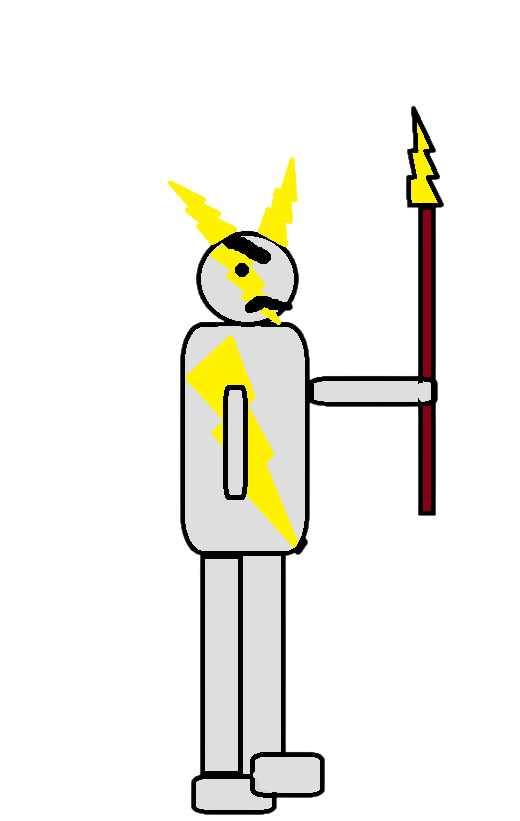
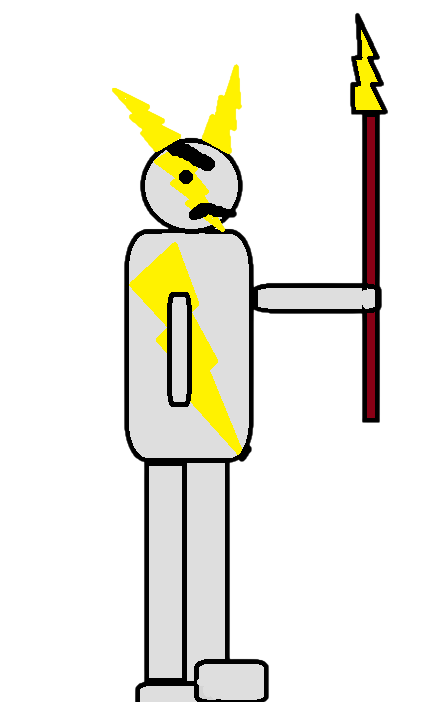
added attack animaye

Changed region(s): [[0.2464, 0.0, 0.9242, 1.0]]

diff --git a/gamae.py b/gamae.py
@@ -6,9 +6,19 @@ player1img=pygame.image.load('untiteld4.png')
 player1img=pygame.transform.scale(player1img,(60,85))
 player1imgleft=pygame.transform.flip(player1img,True,False)
 
+player1attack=pygame.image.load('untiteld4_attack.png')
+player1attack=pygame.transform.scale(player1attack,(60,85))
+player1attackleft=pygame.transform.flip(player1attack,True,False)
+
+pa1r=player1img
+
 player2img=pygame.image.load('Untitled5.png')
 player2img=pygame.transform.scale(player2img,(60,85))
 player2imgleft=pygame.transform.flip(player2img,True,False)
+
+player2attack=pygame.image.load('Untitled5_attack.png')
+player2attack=pygame.transform.scale(player2attack,(60,85))
+player2attackleft=pygame.transform.flip(player2attack,True,False)
 
 clock=pygame.time.Clock()
 
@@ -130,8 +140,6 @@ def player_movement(player_vl_x,player_vl_y,grounded,key,flag,floor,platform1,pl
 
     elif player_vl_x<0:
             player_vl_x+=0.5
-        
-    
 
     return player_vl_x,player_vl_y,grounded,flag
 
@@ -139,6 +147,7 @@ def player_movement(player_vl_x,player_vl_y,grounded,key,flag,floor,platform1,pl
 
 while runing:
     key=pygame.key.get_pressed()
+    mouse=pygame.mouse.get_pressed()
 
     for event in pygame.event.get():
 
@@ -160,12 +169,23 @@ while runing:
     screen.fill('purple')
     #pygame.draw.rect(screen,'gray',player1) # --hitbox--
     #pygame.draw.rect(screen,'gray',player2) # --hitbox--
-    if flag1==True:
+    if mouse[0]:
+        if flag1==True:
+            screen.blit(player1attack, (player1.x, player1.y))
+        elif flag1==False:
+            screen.blit(player1attackleft, (player1.x, player1.y))
+            
+    elif flag1==True:
         screen.blit(player1img, (player1.x, player1.y))
     elif flag1==False:
         screen.blit(player1imgleft, (player1.x, player1.y))
-    
-    if flag2==True:
+    if mouse[2]:
+        if flag2==True:
+            screen.blit(player2attack, (player2.x, player2.y))
+        elif flag2==False:
+            screen.blit(player2attackleft, (player2.x, player2.y))
+
+    elif flag2==True:
         screen.blit(player2img, (player2.x, player2.y))
     elif flag2==False:
         screen.blit(player2imgleft, (player2.x, player2.y))
